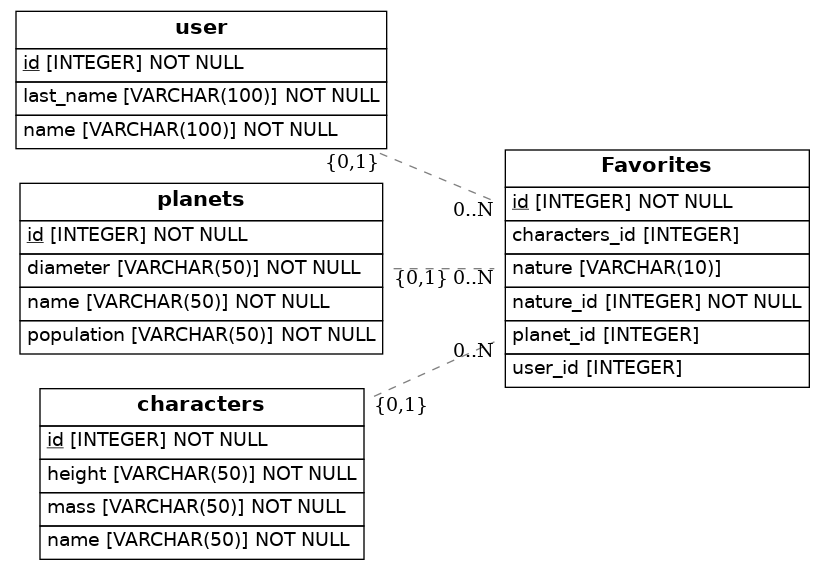
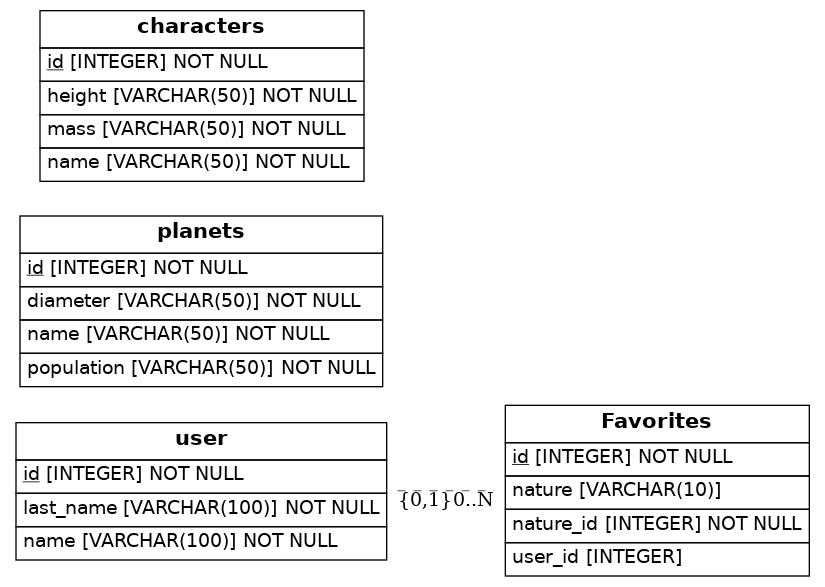
api

Changed region(s): [[0.0, 0.0, 1.0, 0.9842]]

diff --git a/src/models.py b/src/models.py
@@ -53,8 +53,6 @@ class Favorites(Base):
     user_id = Column(Integer, nullable=False)
     nature_id = Column(Integer, nullable=False)
     user_id = Column(Integer, ForeignKey('user.id'))
-    planet_id = Column(Integer, ForeignKey('planets.id'))
-    characters_id = Column(Integer, ForeignKey('characters.id'))
     nature = Column("nature",Enum(Nature))
     
     def add_favorites():
